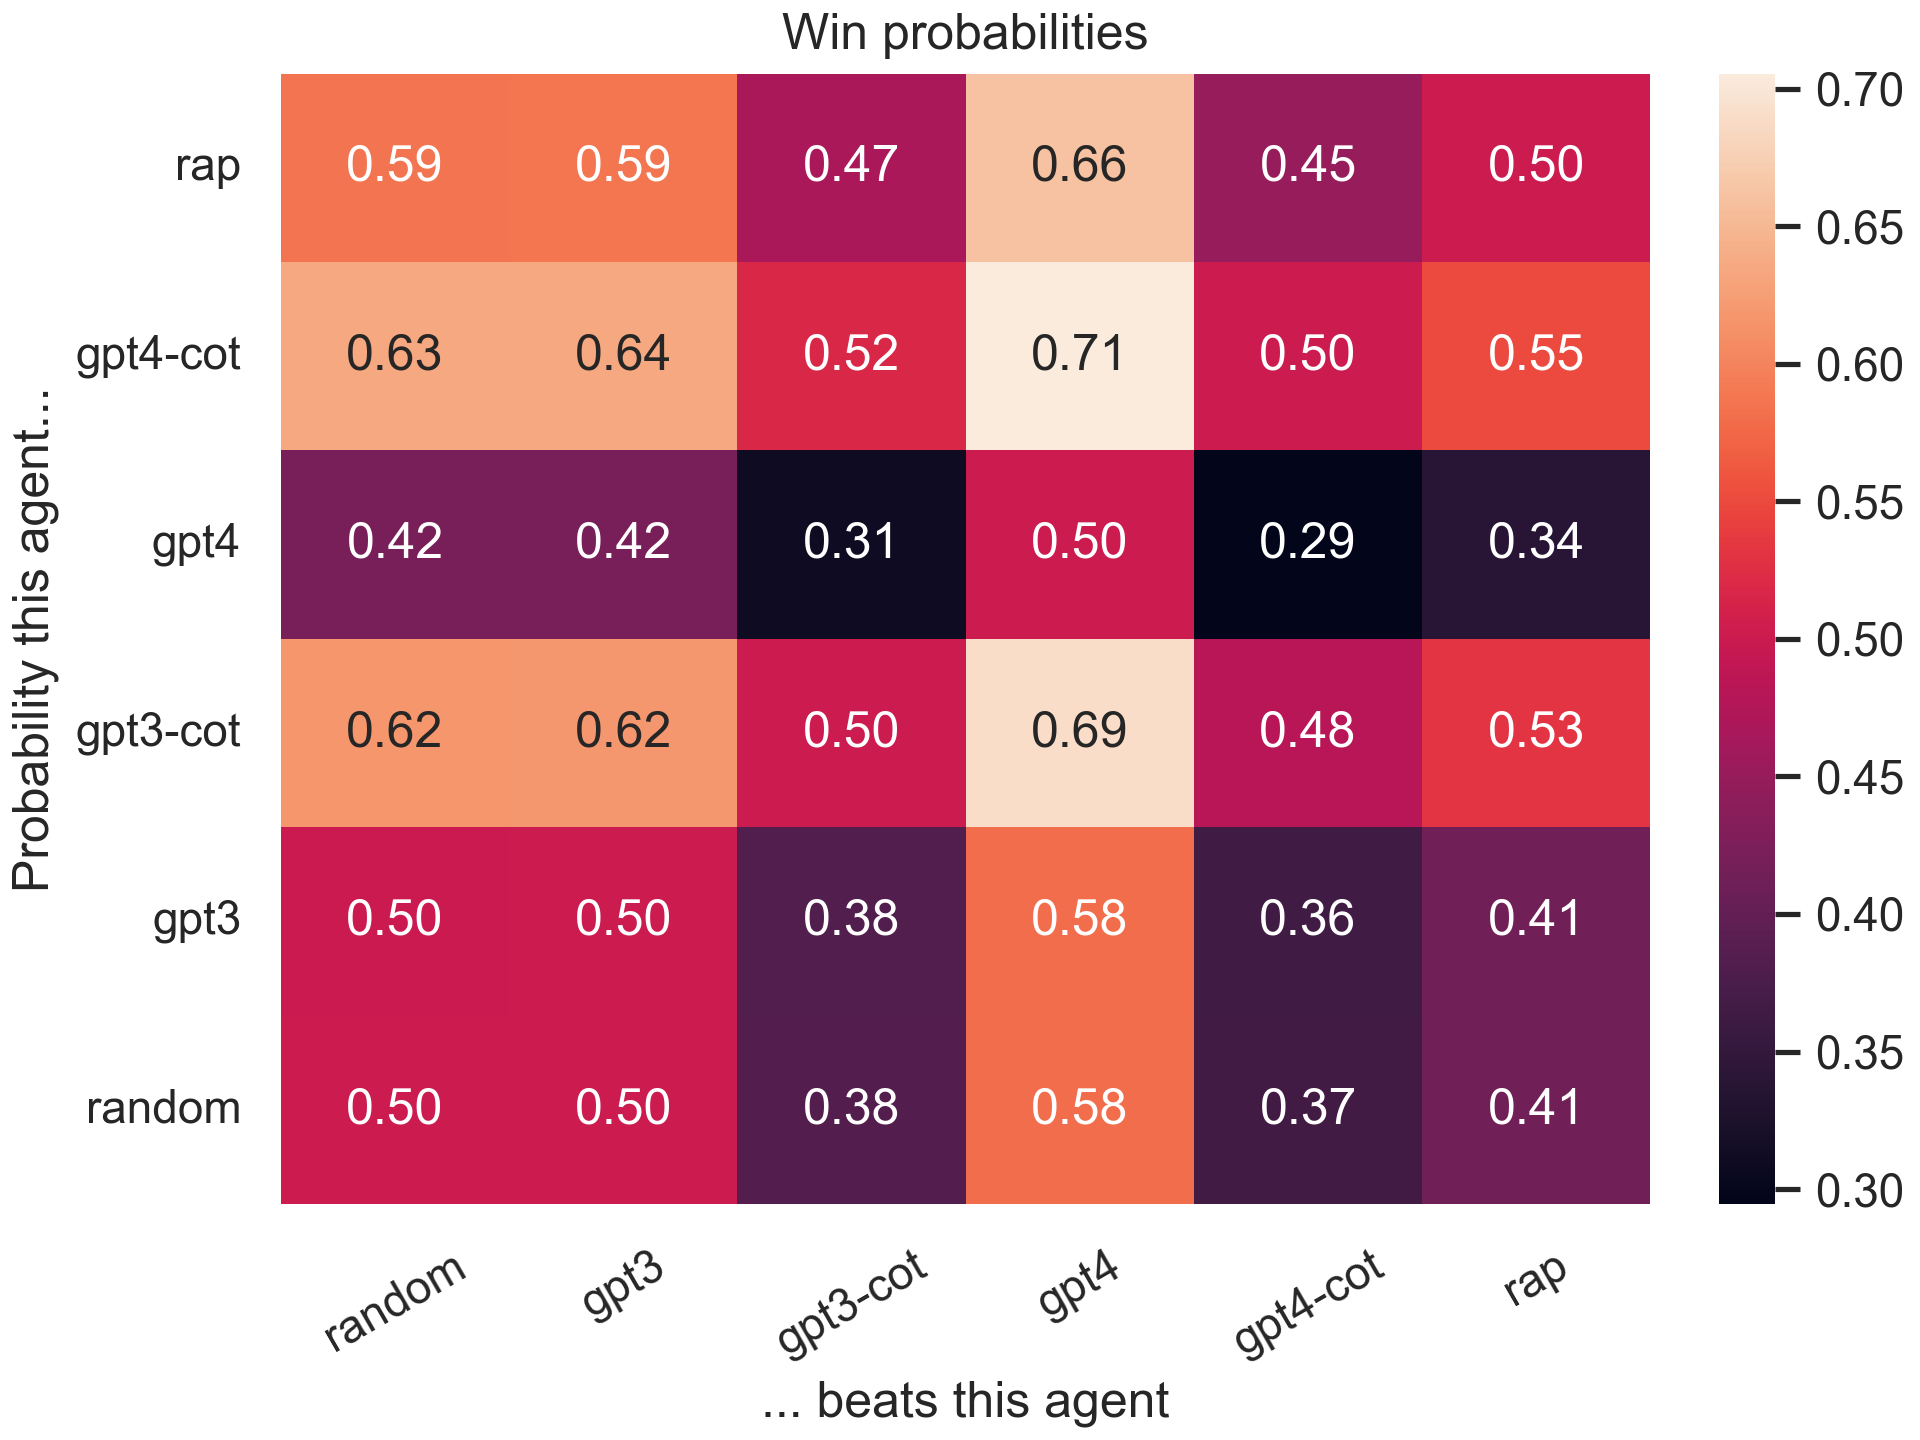
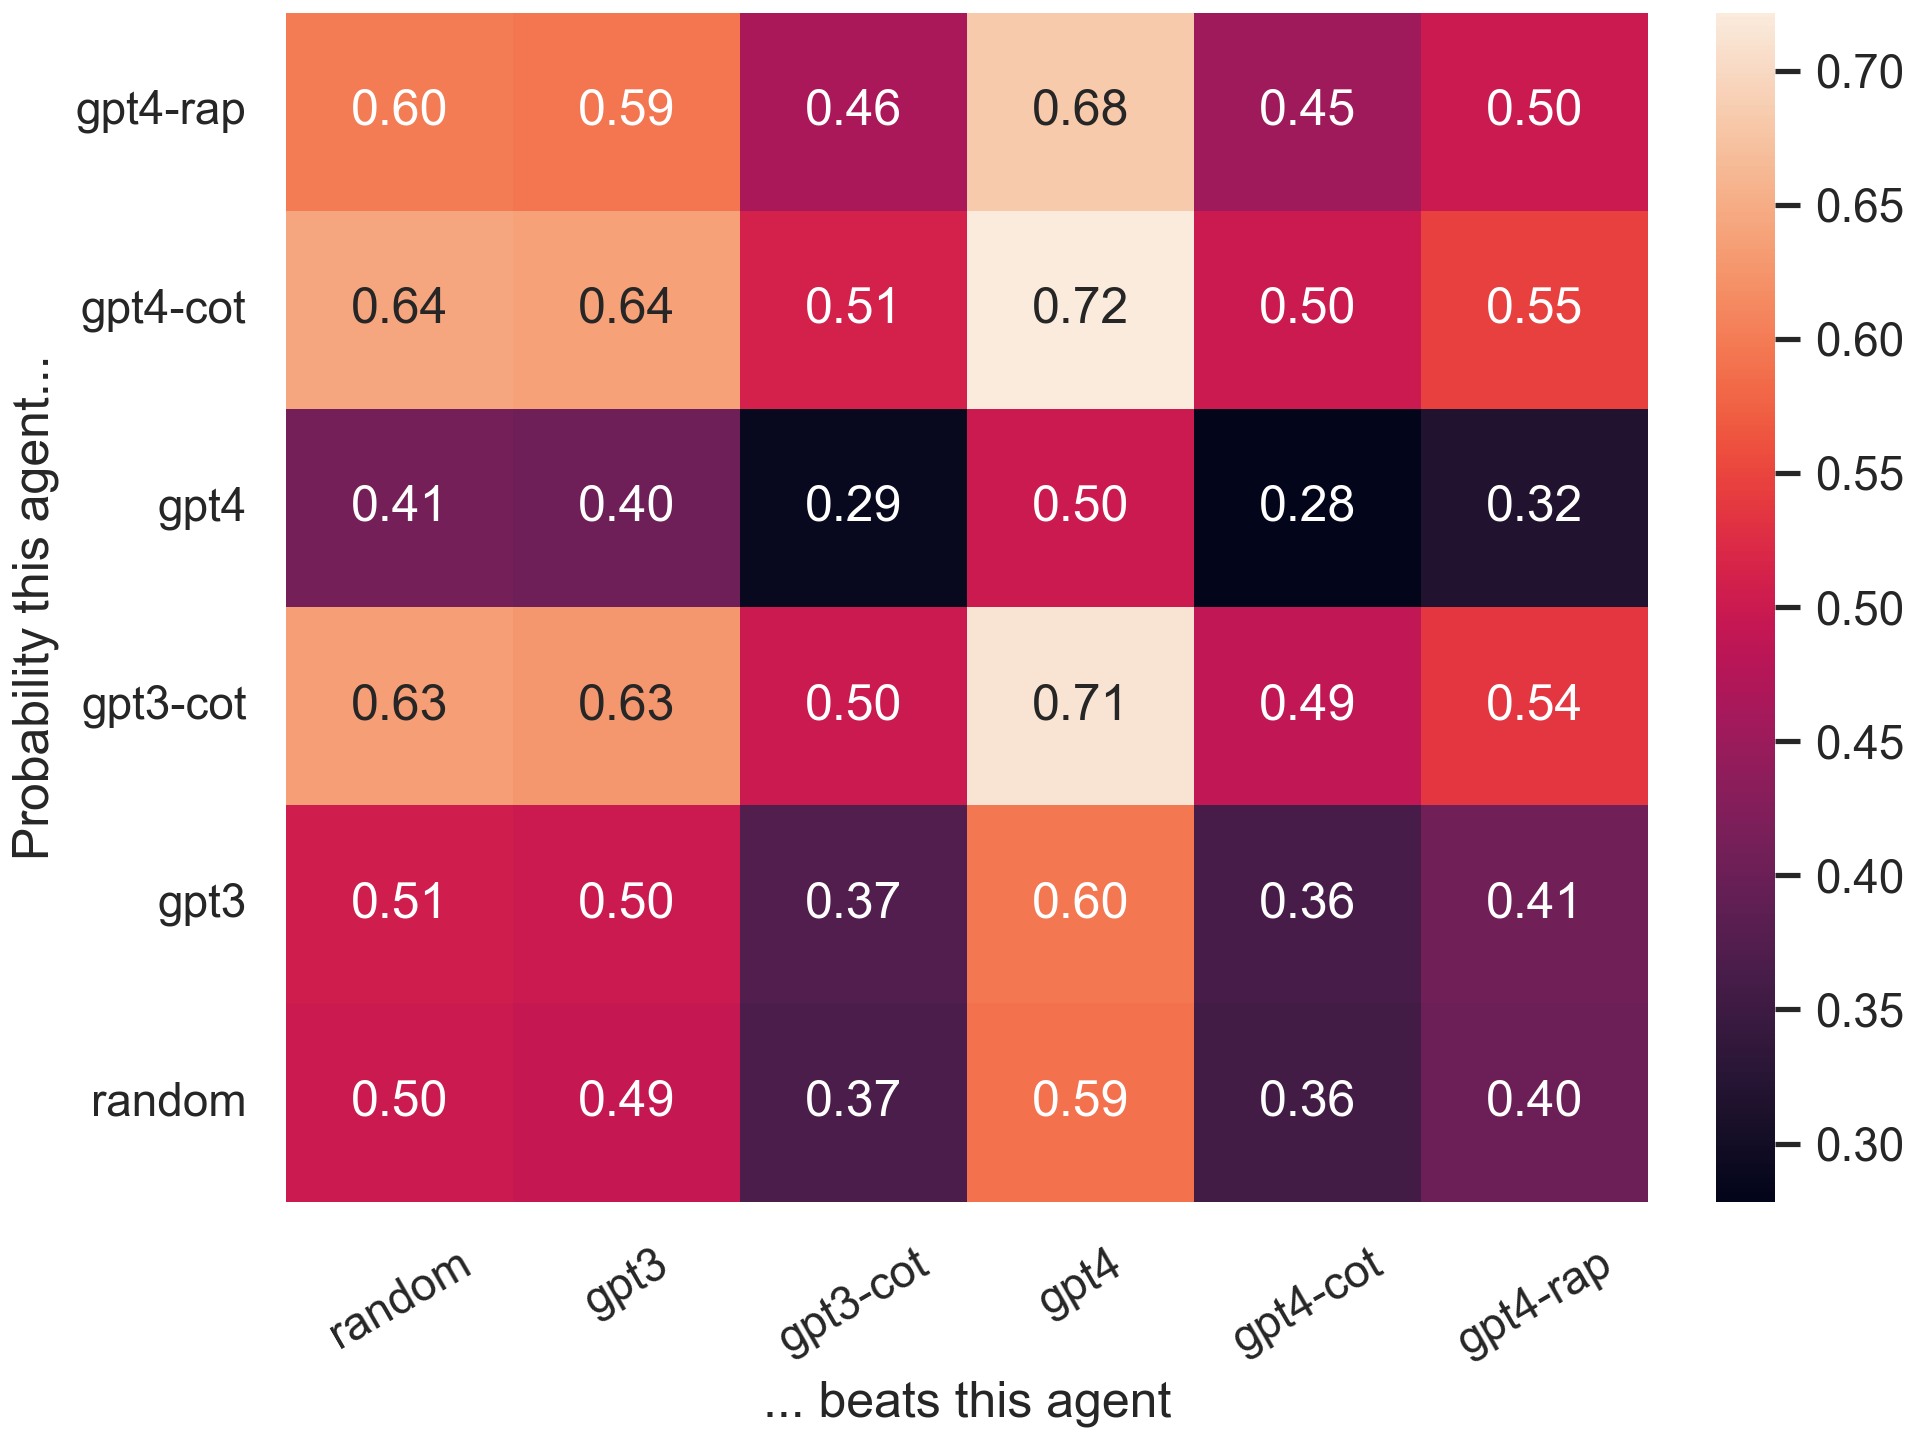
updated figures

diff --git a/make_aggregated_visuals.py b/make_aggregated_visuals.py
@@ -2,84 +2,24 @@ from api.util import load_json
 from collections import defaultdict
 import random
 import seaborn as sns
-
-
 import functools
 
 import choix
 import matplotlib.pyplot as plt
 import numpy as np
+from rating import bootstrap_params, players, n_players, get_matches, better_names, shorter_names
 
 sns.set(style='whitegrid')
 
-all_matches = [
-    m
-    for m in load_json("matches.json")
-]
+all_matches = get_matches()
 
-players = ["random", "gpt3", "gpt3-cot", "gpt4", "gpt4-cot", "rap"]
-n_players = len(players)
-
-def lsr_pairwise(n_items, data, alpha=0.0, initial_params=None):
-    weights, chain = choix.lsr._init_lsr(n_items, alpha, initial_params)
-    for p1, p2, p1score, p2score in data:
-        chain[p1, p2] += float(p2score) / (weights[p1] + weights[p2])
-        chain[p2, p1] += float(p1score) / (weights[p1] + weights[p2])
-    chain -= np.diag(chain.sum(axis=1))
-    return choix.utils.log_transform(choix.utils.statdist(chain))
-
-
-def ilsr_pairwise(
-    n_items, data, alpha=0.0, initial_params=None, max_iter=100, tol=1e-8
-):
-    fun = functools.partial(lsr_pairwise, n_items=n_items, data=data, alpha=alpha)
-    return choix.lsr._ilsr(fun, initial_params, max_iter, tol)
-
-
-def get_params(matches):
-    wins = []
-    for match in matches:
-        agents = list(match.keys())[1:]
-        if match[agents[0]] == match[agents[1]]:
-            continue
-
-        i = players.index(agents[0])
-        j = players.index(agents[1])
-
-        wins.append((i, j, match[agents[0]], match[agents[1]]))
-
-    params = ilsr_pairwise(len(players), wins, alpha=0.001)
-    return params
-
-
-def boostrap_params():
-    weights = defaultdict(int)
-    for match in all_matches:
-        weights[match["game"]] += 1
-
-    bootstrapped_params = np.array(
-        [
-            get_params(
-                random.choices(
-                    all_matches, k=len(all_matches), weights=[1 / weights[m["game"]] for m in all_matches]
-                )
-            )
-            for _ in range(100)
-        ]
-    )#.transpose((1, 0))
-
-    return bootstrapped_params
-
-bootstrapped_params = boostrap_params()
+bootstrapped_params = bootstrap_params(all_matches)
 ratings = bootstrapped_params.mean(0)
 
 fig, ax = plt.subplots()
 sns.boxplot(data=bootstrapped_params, whis=(0, 100), ax=ax)
-ax.set_title("Bradley-Terry Model Rating")
-ax.set_xlabel("Agent")
-ax.set_ylabel("Exponential rating")
+#ax.set_xlabel("Agent")
 ax.set_xticks(ticks=range(len(players)), labels=players)
-ax.tick_params(axis='x', rotation=30)
 
 plt.savefig("figures/overall_rating.png")
 
@@ -93,7 +33,7 @@ for i in range(n_players):
         matrix[i, j] = choix.probabilities([i, j], ratings)[0]
 
 sns.heatmap(matrix, ax=ax, annot=True, xticklabels=players, yticklabels=players, fmt=".2f")
-ax.set_title("Win probabilities")
+#ax.set_title("Win probabilities")
 ax.set_ylabel("Probability this agent...")
 ax.set_xlabel("... beats this agent")
 ax.tick_params(axis='x', rotation=30)
@@ -104,24 +44,25 @@ plt.savefig("figures/overall_probabilities.png")
 
 ################################################################################
 
-fig, ax = plt.subplots()
+fig, ax = plt.subplots(constrained_layout=True, dpi=300)
 
 n_games = defaultdict(int)
+counts = [0] * n_players
 for match in all_matches:
     agents = list(match.keys())[1:]
-    n_games[agents[0]] += 1
-    n_games[agents[1]] += 1
+    counts[players.index(agents[0])] += 1
+    counts[players.index(agents[1])] += 1
 
-agents, counts = zip(*list(n_games.items()))
-ax.barh(agents, counts)
-ax.set_ylabel("Agent")
-ax.set_xlabel("Number of matches collected")
+sns.barplot(x=players, y=counts, ax=ax)
+#ax.tick_params(axis='x', rotation=30)
+#ax.set_ylabel("Agent")
+#ax.set_xlabel("Number of matches collected")
 
 plt.savefig("figures/num_matches_per_agent.png")
 
 ################################################################################
 
-fig, ax = plt.subplots()
+fig, ax = plt.subplots(constrained_layout=True, dpi=300)
 
 n_games = defaultdict(int)
 for match in all_matches:
@@ -129,9 +70,12 @@ for match in all_matches:
     n_games[game] += 1
 
 games, counts = zip(*list(n_games.items()))
-ax.barh(games, counts)
-ax.set_ylabel("Game")
-ax.set_xlabel("Number of matches collected")
+sns.barplot(x=[better_names[g] for g in games], y=counts, ax=ax)
+labels = ax.get_xticklabels()
+plt.setp(labels, rotation=45, ha="right", rotation_mode="anchor")
+#ax.tick_params(axis='x', rotation=30)
+#ax.set_ylabel("Game")
+#ax.set_xlabel("Number of matches collected")
 
 plt.savefig("figures/num_matches_per_game.png")
 
@@ -177,10 +121,3 @@ ax.invert_yaxis()
 plt.savefig("figures/average_score.png")
 
 ################################################################################
-
-
-
-for game in games:
-    matches = []
-    df[:, (game, "P(win)")] = choix.probabilities(range(len(players)), ratings)
-    df[:, (game, "rating")] = ratings

diff --git a/make_visuals.py b/make_visuals.py
@@ -7,23 +7,11 @@ import matplotlib.pyplot as plt
 import numpy as np
 import functools
 import seaborn as sns
+from rating import bootstrap_params, players, n_players
 
 sns.set(style='whitegrid')
 
-import pandas as pd
-
-columns = pd.MultiIndex.from_product(
-    [
-        ["sea_battle", "pit"],
-        ["# matches", "avg. score", "P(win)", "rating"]
-    ],
-    names=["game", "metric"]
-)
-df = pd.DataFrame(index=players, columns=columns)
-
 def make_figures(game, matches):
-    players = ["random", "gpt3", "gpt3-cot", "gpt4", "gpt4-cot", "rap"]
-    n_players = len(players)
 
     fig, axs = plt.subplots(2, 2, figsize=(9.5, 7.8), constrained_layout=True, dpi=300)
     ax_nmatches = axs[0, 0]
@@ -88,37 +76,6 @@ def make_figures(game, matches):
     ax_score.invert_yaxis()
 
     ################################################################################
-
-    def lsr_pairwise(n_items, data, alpha=0.0, initial_params=None):
-        weights, chain = choix.lsr._init_lsr(n_items, alpha, initial_params)
-        for p1, p2, p1score, p2score in data:
-            chain[p1, p2] += float(p2score) / (weights[p1] + weights[p2])
-            chain[p2, p1] += float(p1score) / (weights[p1] + weights[p2])
-        chain -= np.diag(chain.sum(axis=1))
-        return choix.utils.log_transform(choix.utils.statdist(chain))
-
-
-    def ilsr_pairwise(
-        n_items, data, alpha=0.0, initial_params=None, max_iter=100, tol=1e-8
-    ):
-        fun = functools.partial(lsr_pairwise, n_items=n_items, data=data, alpha=alpha)
-        return choix.lsr._ilsr(fun, initial_params, max_iter, tol)
-
-    def get_params(matches):
-        wins = []
-        for match in matches:
-            agents = list(match.keys())[1:]
-            if match[agents[0]] == match[agents[1]]:
-                continue
-
-            i = players.index(agents[0])
-            j = players.index(agents[1])
-
-            wins.append((i, j, match[agents[0]], match[agents[1]]))
-
-        params = ilsr_pairwise(len(players), wins, alpha=0.001)
-        return params
-
 
     if game == "overall":
         weights = defaultdict(int)

diff --git a/make_spider_plot.py b/make_spider_plot.py
@@ -17,11 +17,6 @@ N = len(categories)
 all_ratings = {
     c: get_params(get_matches(c)) for c in categories
 }
-#for category, ratings in all_ratings.items():
-#    expratings = np.exp(ratings)
-#    best = np.max(expratings)
-#    relative = expratings / best
-#    all_ratings[category] = relative
 
 x, y, hue = [], [], []
 for category in categories:
@@ -36,38 +31,7 @@ y = np.array(y)
 hue = np.array(hue)
 
 fig, ax = plt.subplots(figsize=(9, 6), constrained_layout=True, dpi=300)
-sns.scatterplot(x=y, y=x, hue=hue, style=hue, palette='bright', s=100, ax=ax)
+sns.scatterplot(x=x, y=y, hue=hue, style=hue, palette='bright', s=300, ax=ax)
+ax.set_ylim(-2.5, 3)
+plt.xticks(rotation=45, ha="right", rotation_mode="anchor")
 plt.savefig("figures/rating_scatter.png")
-
-"""
-angles = np.linspace(0, 2 * np.pi, N, endpoint=False).tolist()
-angles += angles[:1]
-fig, ax = plt.subplots(figsize=(6, 6), subplot_kw=dict(polar=True), dpi=300, constrained_layout=True)
-
-
-ax.set_theta_offset(np.pi / 2)
-ax.set_theta_direction(-1)
-
-better_name = {
-    "sea_battle": "Sea Battle", "two_rooms_and_a_boom": "Two Rooms and a Boom",
-    "are_you_the_traitor": "Are You the Traitor?", "air_land_sea": "Air, Land, and Sea",
-    "santorini": "Santorini", "hive": "Hive", "pit": "Pit", "arctic_scavengers": "Arctic Scavengers",
-    "codenames": "Codenames"
-}
-
-plt.xticks(angles[:-1], [better_name[c] for c in categories])
-
-ax.set_rscale('linear')
-plt.ylim(0, 1)
-
-# Plot each model
-for i, player in enumerate(players):
-    value = [r[i] for _, r in all_ratings.items()]
-    data = value + value[:1]
-    ax.plot(angles, data, linewidth=1, linestyle='solid', label=player)
-    ax.fill(angles, data, alpha=0.1)
-
-# Add a legend
-plt.legend(loc='upper right', bbox_to_anchor=(0.1, 0.1))
-plt.savefig("figures/spider_plot.png")
-#plt.show()"""
